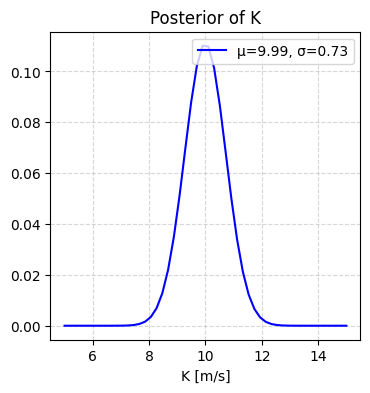
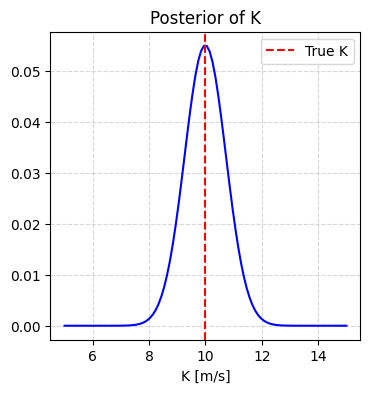
Rework 2.2 example

diff --git a/scripts/2.5/mcmc-ex.py b/scripts/2.5/mcmc-ex.py
@@ -1,0 +1,176 @@
+#%%
+# --- Radial Velocity Example ---
+# This script demonstrates simple MCMC parameter estimation for a 
+# sinusoidal radial velocity model of the form:
+# v(t) = K * sin(2 * pi * t / P + phi)
+
+import numpy as np
+import matplotlib.pyplot as plt
+
+np.random.seed(42)  # The meaning of life for reproducibility
+#%%
+# --- True Parameter Values ---
+K = 10.0            # Velocity semi-amplitude [m/s]
+P = 21.4            # Period of the signal [days]
+phi = 0.25 * np.pi  # Phase offset [radians]
+sig_ob = 3.0        # Observational uncertainty (standard deviations)
+
+#%%
+# --- Generate Synthetic Data ---
+# Simulate 34 observations across 42 days
+t = np.sort(42 * np.random.rand(34))
+
+# Observed velocities = true model + Gaussian noise
+v_ob = K * np.sin((2 * np.pi * t / P) + phi) + np.random.normal(0, sig_ob, size=len(t))
+
+#%%
+# --- MCMC Parameter Estimation ---
+# Define prior, likelihood, and posterior functions
+
+# Uniform prior over plausible parameter ranges
+def log_prior(K, P, phi):
+    if 5 < K < 15 and 20 < P < 30 and 0 < phi < 2 * np.pi:
+        return -np.log(10 * 10 * 2 * np.pi)
+    else:
+        return -np.inf
+
+# Gaussian likelihood assuming constant sigma
+def log_likelihood(K, P, phi):
+    v_model = K * np.sin((2 * np.pi * t / P) + phi)
+    return -0.5 * np.sum(
+      ((v_ob - v_model)/sig_ob)**2 + np.log(2*np.pi*sig_ob**2)
+    )
+
+#%%
+# Define proposal distribution
+def newProposal(current):
+  step_size = [0.25, 0.25, 0.1] # Standard deviation for new proposals
+  return [
+    np.random.normal(current[0], step_size[0]),
+    np.random.normal(current[1], step_size[1]),
+    np.random.normal(current[2], step_size[2])
+  ]
+
+#%%
+# Metropolis Algorithm
+walks = 10
+burn_steps = 1000
+steps = 12000
+chain = np.zeros((walks, burn_steps + steps + 1,3))
+
+for w in range(walks):
+  curr_state = [14,25,np.pi] # Initial guess, should be a good guess within the parameter space
+  
+  curr_prior = log_prior(*curr_state)
+  curr_likelihood = log_likelihood(*curr_state)
+  chain[w,0] = curr_state
+  
+  accept_count = 0
+  
+  for i in range(burn_steps + steps):
+    new_proposal = newProposal(curr_state)
+    
+    new_prior = log_prior(*new_proposal)
+    new_likelihood = -np.inf
+    # Only calculate likelihood if the new proposal is in the parameter space
+    if (new_prior != -np.inf):
+      new_likelihood = log_likelihood(*new_proposal)
+
+    # Accept or reject the proposal?
+    new_log_post = new_prior + new_likelihood
+    curr_log_post = curr_prior + curr_likelihood
+    alpha = np.exp(new_log_post - curr_log_post)
+    if alpha > 1:
+      alpha = 1
+    
+    if np.random.rand() < alpha:
+      curr_state = new_proposal
+      curr_prior = new_prior
+      curr_likelihood = new_likelihood
+      accept_count += 1
+    
+    chain[w,i+1] = curr_state
+  print(accept_count/(burn_steps + steps))
+
+# Remove burn steps
+chain = chain[:,burn_steps+1:]
+
+#%%
+# Plot the results of the algorithm
+K_chain = chain[:,:,0]
+P_chain = chain[:,:,1]
+phi_chain = chain[:,:,2]
+chain_range = np.arange(burn_steps,burn_steps+steps)
+
+fig, axes = plt.subplots(3, 1, figsize=(10, 8), sharex=True)
+
+# K trace
+for p in range(len(chain)):
+  axes[0].plot(chain_range, K_chain[p])
+axes[0].axhline(y=K, color='r', ls='--', label='True K')
+axes[0].set_ylabel('K [m/s]')
+axes[0].set_title('Trace of K')
+axes[0].legend()
+
+# P trace
+for p in range(len(chain)):
+  axes[1].plot(chain_range, P_chain[p])
+axes[1].axhline(y=P, color='r', ls='--', label='True T')
+axes[1].set_ylabel('Period [days]')
+axes[1].set_title('Trace of T')
+axes[1].legend()
+
+# phi trace
+for p in range(len(chain)):
+  axes[2].plot(chain_range, phi_chain[p])
+axes[2].axhline(y=phi, color='r', ls='--', label='True phi')
+axes[2].set_ylabel('Phase [rad]')
+axes[2].set_xlabel('Step')
+axes[2].set_title('Trace of phi')
+axes[2].legend()
+
+plt.tight_layout()
+plt.show()
+# %%
+# Plot histograms
+plt.figure(figsize=(4, 4))
+plt.hist(K_chain.flatten(), bins=50, color='tab:blue', alpha=0.7)
+plt.axvline(K, color='r', ls='--', label='True K')
+plt.ylabel('Count')
+plt.xlabel('K [m/s]')
+plt.title('Posterior of K')
+plt.legend()
+plt.show()
+
+plt.figure(figsize=(4, 4))
+plt.hist(P_chain.flatten(), bins=50, color='tab:blue', alpha=0.7)
+plt.axvline(P, color='r', ls='--', label='True T')
+plt.ylabel('Count')
+plt.xlabel('Period [days]')
+plt.title('Posterior of T')
+plt.legend()
+plt.show()
+
+plt.figure(figsize=(4, 4))
+plt.hist(phi_chain.flatten(), bins=50, color='tab:blue', alpha=0.7)
+plt.axvline(phi, color='r', ls='--', label='True phi')
+plt.ylabel('Count')
+plt.xlabel('Phase [rad]')
+plt.title('Posterior of phi')
+plt.legend()
+plt.show()
+# %%
+# Calculate expectation values and standard deviations
+K_mean = np.mean(K_chain)
+K_std = np.std(K_chain)
+
+P_mean = np.mean(P_chain)
+P_std = np.std(P_chain)
+
+phi_mean = np.mean(phi_chain)
+phi_std = np.std(phi_chain)
+
+print(f"K = {K_mean:.2f} +/- {K_std:.2f}")
+print(f"P = {P_mean:.2f} +/- {P_std:.2f}")
+print(f"phi = {phi_mean:.2f} +/- {phi_std:.2f}")
+# %%
